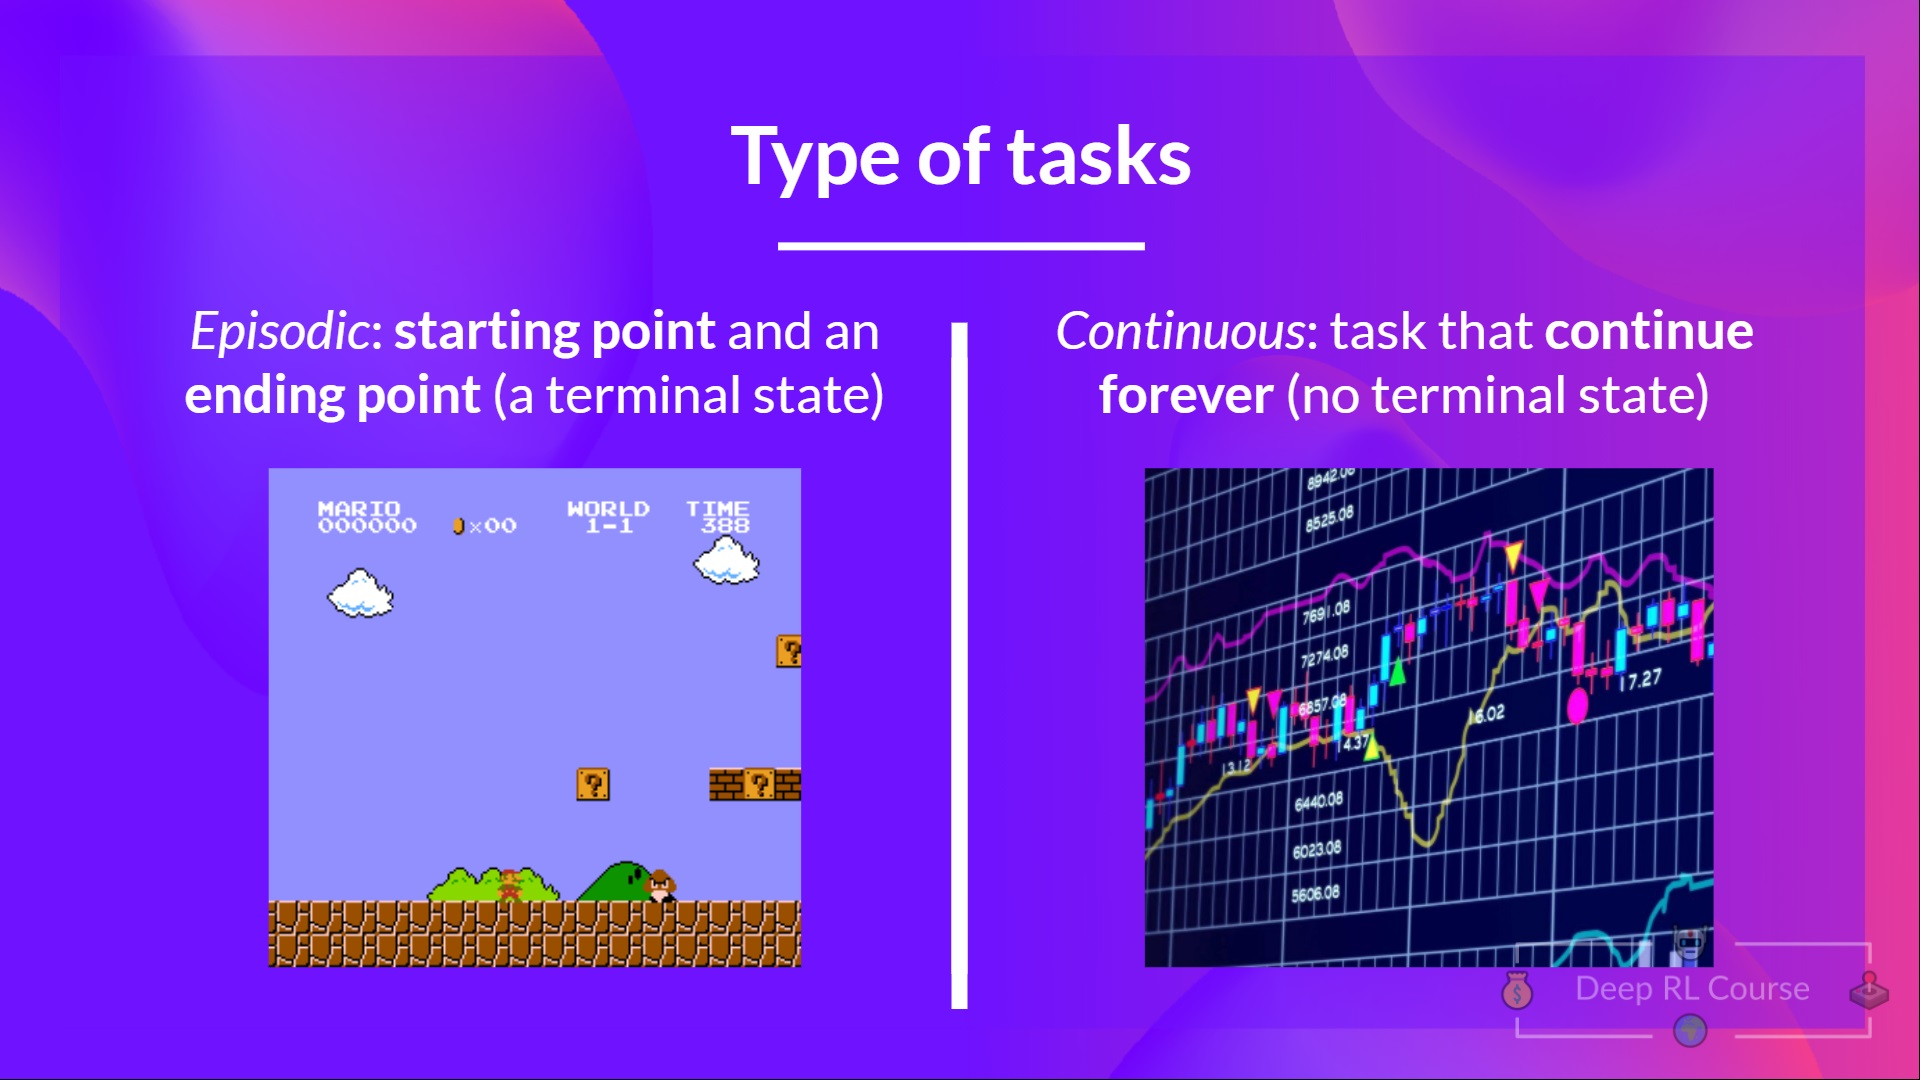
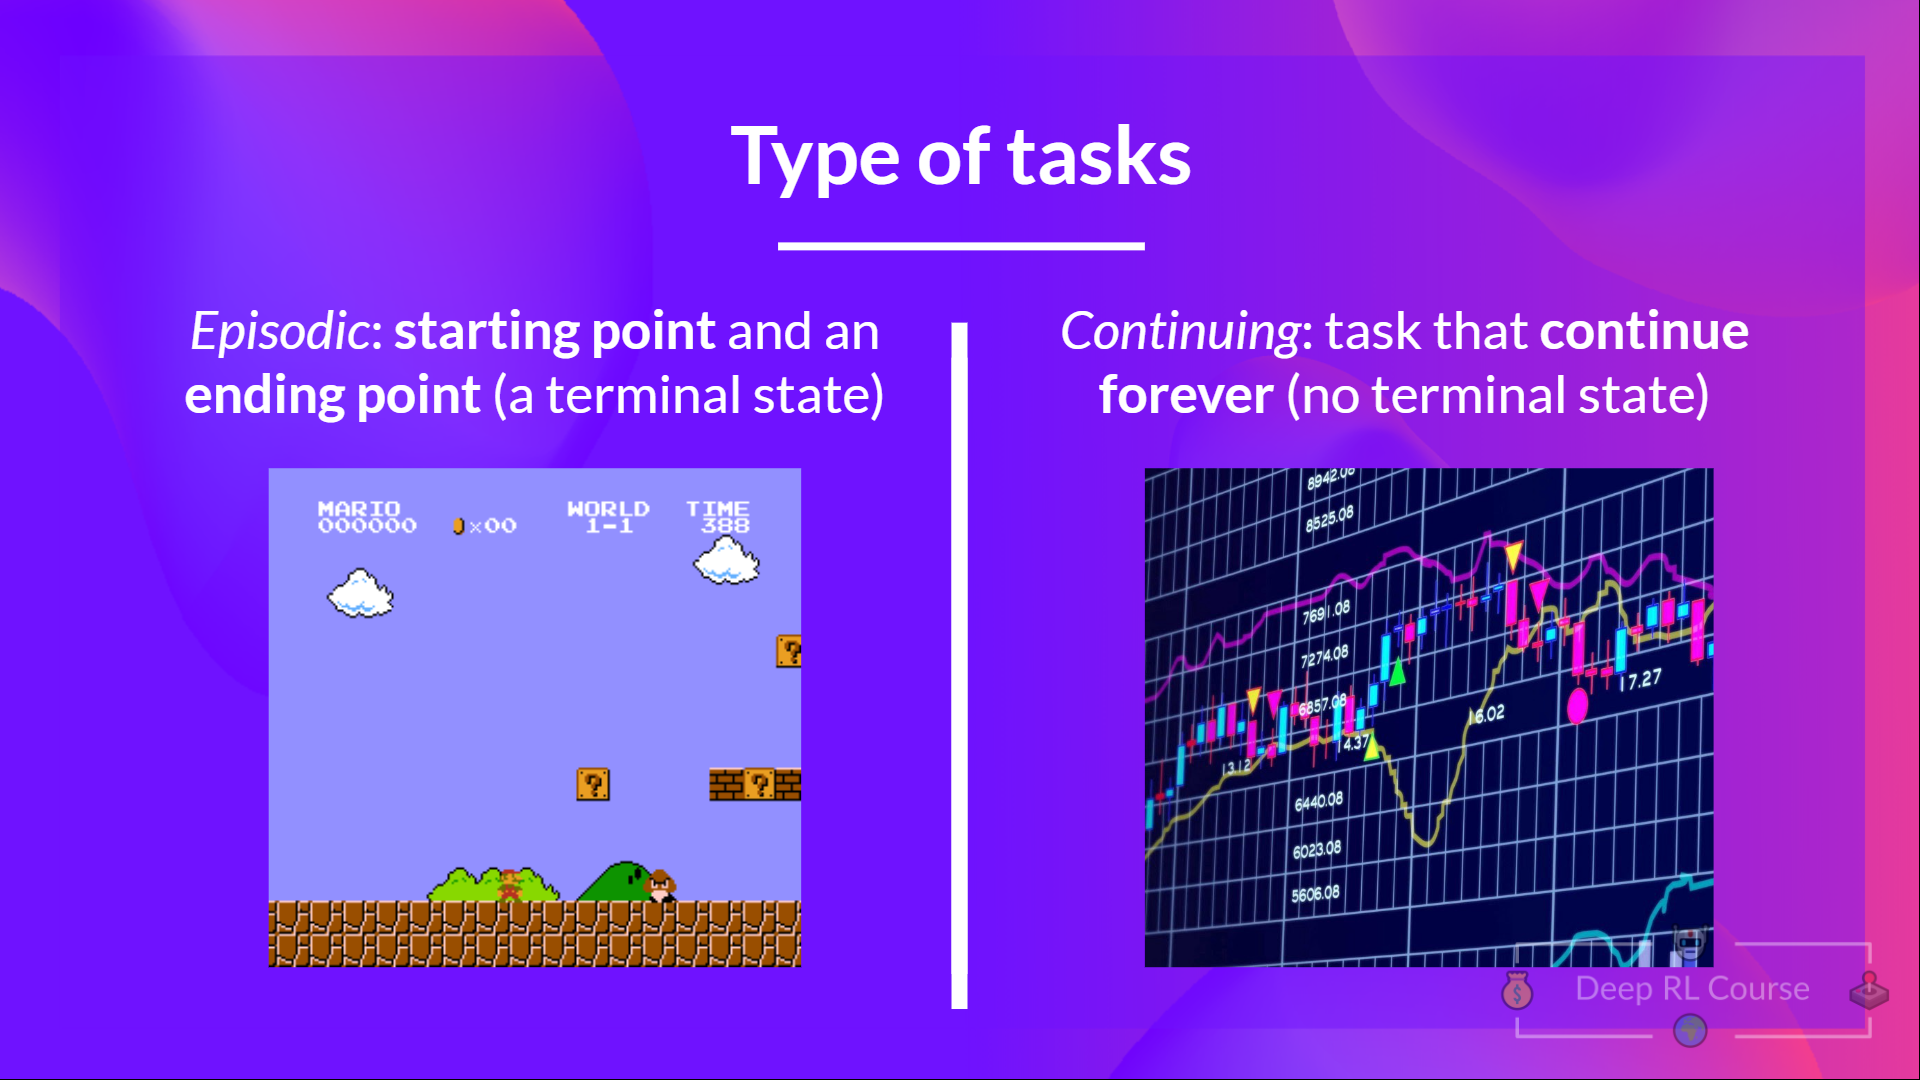
Update Tasks in intro to Deep RL article (#573)
* Update continuous to continuing

Issue #570

* Update tasks.jpg

diff --git a/deep-rl-intro.md b/deep-rl-intro.md
@@ -320,7 +320,7 @@ Our discounted cumulative expected rewards is:
 
 ### Type of tasks
 
-A task is an **instance** of a Reinforcement Learning problem. We can have two types of tasks: episodic and continuous.
+A task is an **instance** of a Reinforcement Learning problem. We can have two types of tasks: episodic and continuing.
 
 #### Episodic task
 
@@ -335,7 +335,7 @@ For instance, think about Super Mario Bros: an episode begin at the launch of a 
 </figure>
 
 
-#### Continuous tasks
+#### Continuing tasks
 
 These are tasks that continue forever (no terminal state). In this case, the agent must **learn how to choose the best actions and simultaneously interact with the environment.**
 
